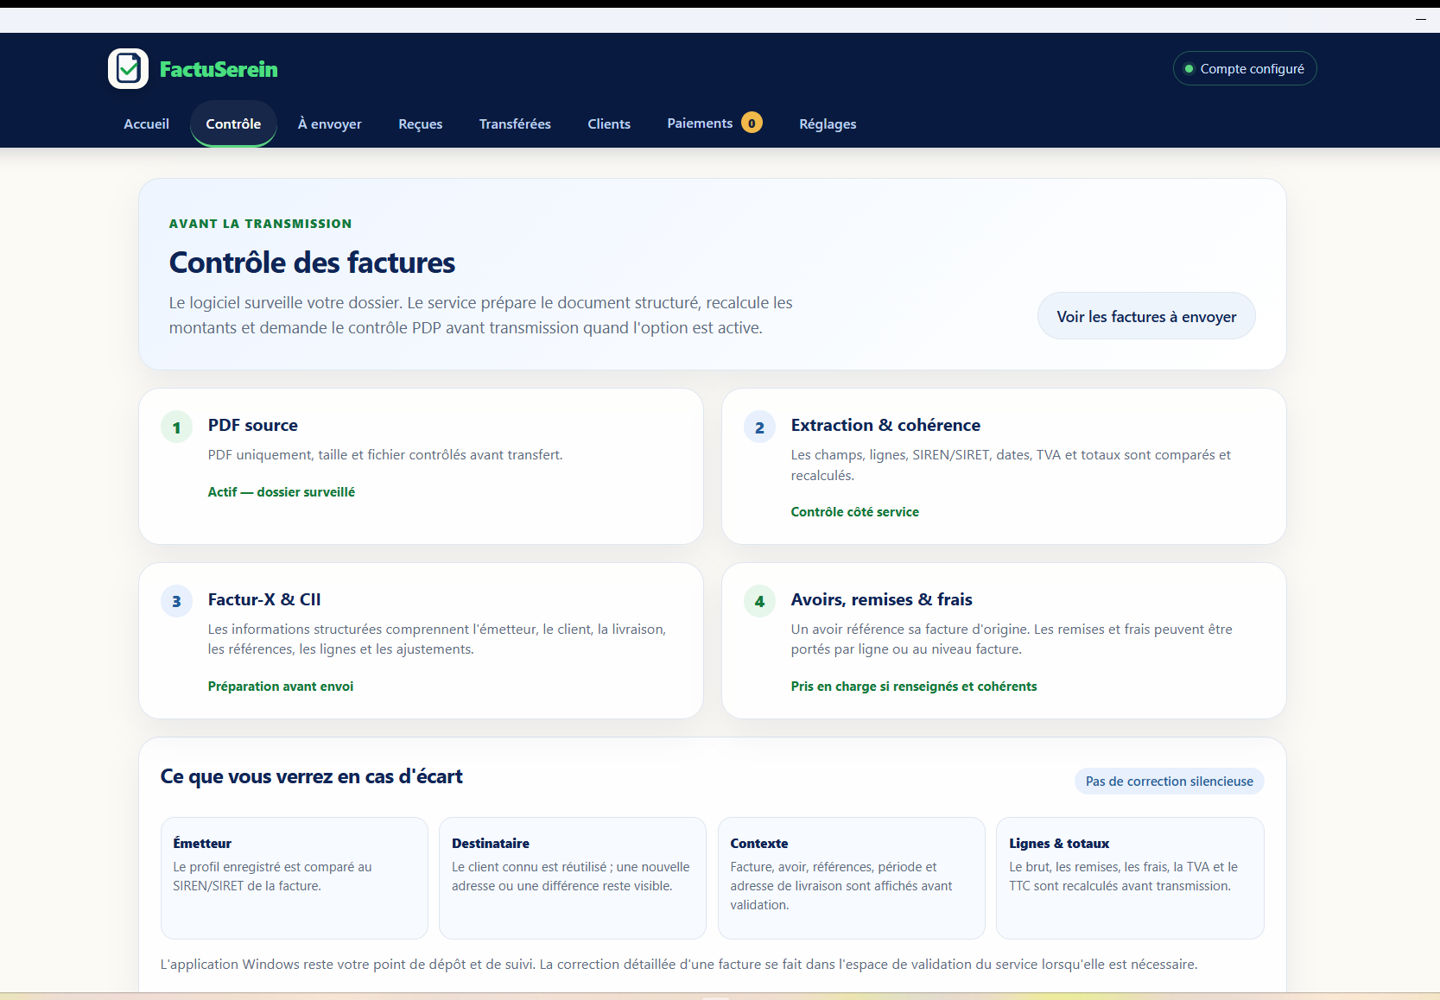
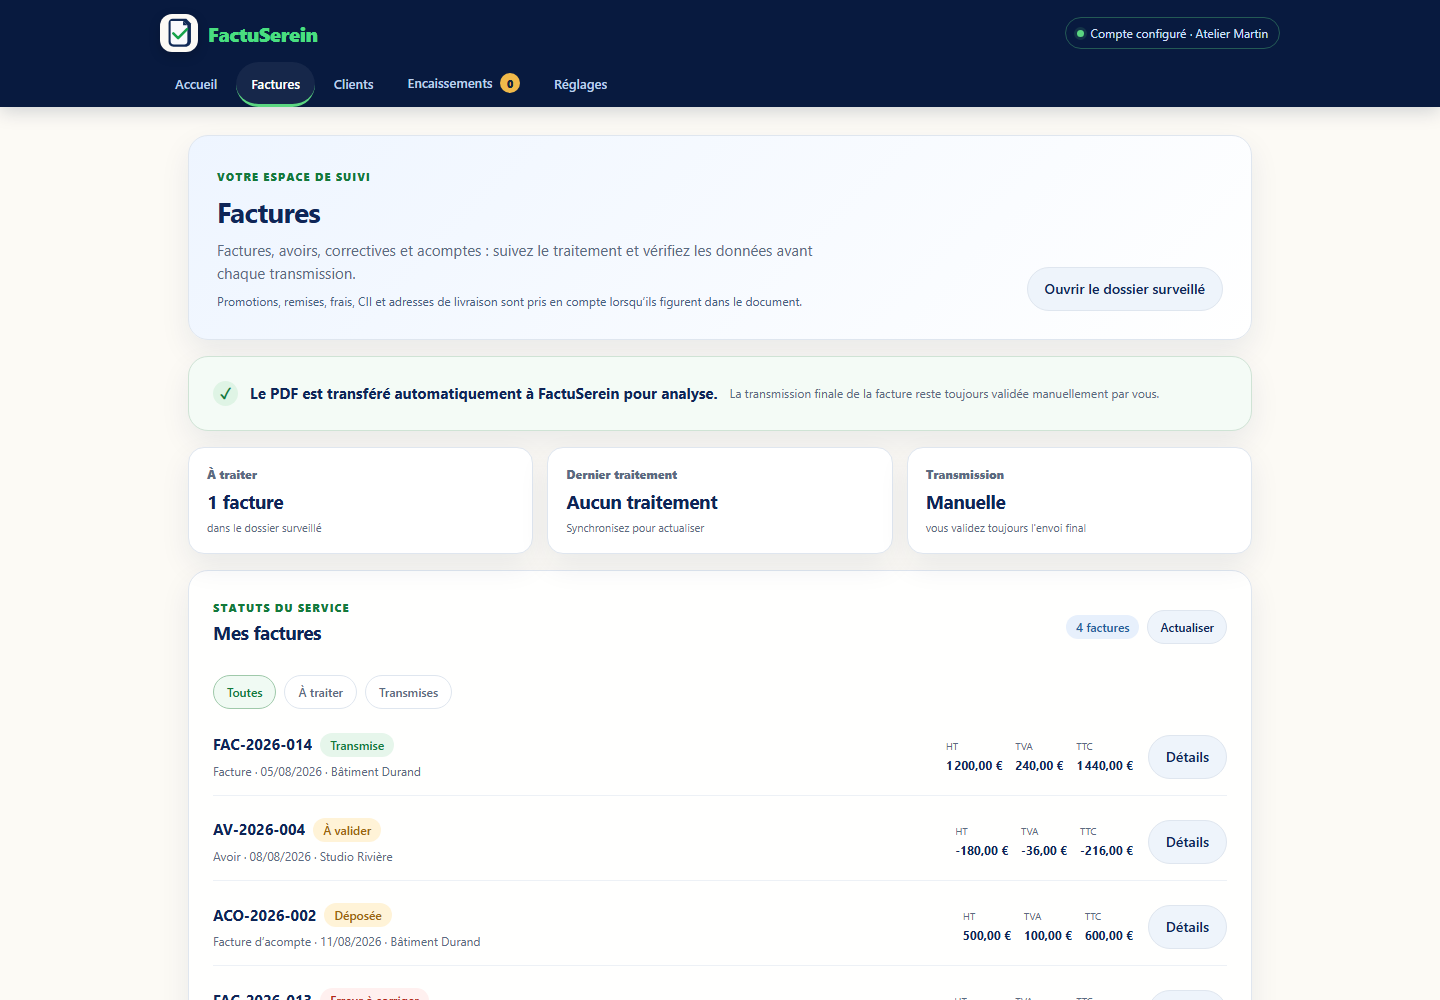
fix: refresh desktop screenshots on download page

diff --git a/outils/telecharger.html b/outils/telecharger.html
@@ -82,12 +82,12 @@
             <figcaption><strong>Accueil.</strong> Un statut court et les actions principales sont visibles immédiatement ; les détails restent dans les onglets dédiés.</figcaption>
           </figure>
           <figure class="app-slide" data-slide aria-hidden="true">
-            <img src="../assets/img/app-screenshot-control.png" alt="Écran Contrôle de l'application Windows FactuSerein avec les étapes de cohérence et de préparation Factur-X" width="1440" height="1000" loading="lazy">
-            <figcaption><strong>Contrôle.</strong> Les étapes de cohérence, Factur-X, les avoirs, les remises et les totaux sont regroupées dans un écran dédié.</figcaption>
+            <img src="../assets/img/app-screenshot-control.png" alt="Écran Factures de l'application Windows FactuSerein avec les statuts, les totaux et les documents à vérifier" width="1440" height="1000" loading="lazy">
+            <figcaption><strong>Factures.</strong> Les statuts, les avoirs, les acomptes, les remises et les totaux sont regroupés dans l'espace de suivi.</figcaption>
           </figure>
           <figure class="app-slide" data-slide aria-hidden="true">
-            <img src="../assets/img/app-screenshot-attente.png" alt="Écran À envoyer de l'application Windows FactuSerein avec le dossier surveillé" width="1440" height="1000" loading="lazy">
-            <figcaption><strong>À envoyer.</strong> Déposez un PDF dans le dossier surveillé et suivez son statut depuis l'application Windows.</figcaption>
+            <img src="../assets/img/app-screenshot-encaissements.png" alt="Écran Encaissements de l'application Windows FactuSerein avec l'option e-reporting désactivée par défaut" width="1440" height="1000" loading="lazy">
+            <figcaption><strong>Encaissements.</strong> L'option e-reporting reste séparée et désactivée par défaut ; elle s'active uniquement si votre activité le justifie.</figcaption>
           </figure>
           <figure class="app-slide" data-slide aria-hidden="true">
             <img src="../assets/img/app-screenshot-clients.png" alt="Écran Clients de l'application Windows FactuSerein avec la recherche et l'ajout d'un destinataire" width="1440" height="1000" loading="lazy">
@@ -121,8 +121,8 @@
           </button>
           <div class="carousel-dots" role="tablist" aria-label="Choisir une capture">
             <button class="carousel-dot is-active" type="button" data-carousel-dot="0" role="tab" aria-selected="true" aria-label="Afficher la capture Accueil"></button>
-            <button class="carousel-dot" type="button" data-carousel-dot="1" role="tab" aria-selected="false" aria-label="Afficher la capture Contrôle"></button>
-            <button class="carousel-dot" type="button" data-carousel-dot="2" role="tab" aria-selected="false" aria-label="Afficher la capture À envoyer"></button>
+            <button class="carousel-dot" type="button" data-carousel-dot="1" role="tab" aria-selected="false" aria-label="Afficher la capture Factures"></button>
+            <button class="carousel-dot" type="button" data-carousel-dot="2" role="tab" aria-selected="false" aria-label="Afficher la capture Encaissements"></button>
             <button class="carousel-dot" type="button" data-carousel-dot="3" role="tab" aria-selected="false" aria-label="Afficher la capture Clients"></button>
             <button class="carousel-dot" type="button" data-carousel-dot="4" role="tab" aria-selected="false" aria-label="Afficher la capture Réglages"></button>
             <button class="carousel-dot" type="button" data-carousel-dot="5" role="tab" aria-selected="false" aria-label="Afficher la capture Lignes et totaux"></button>
